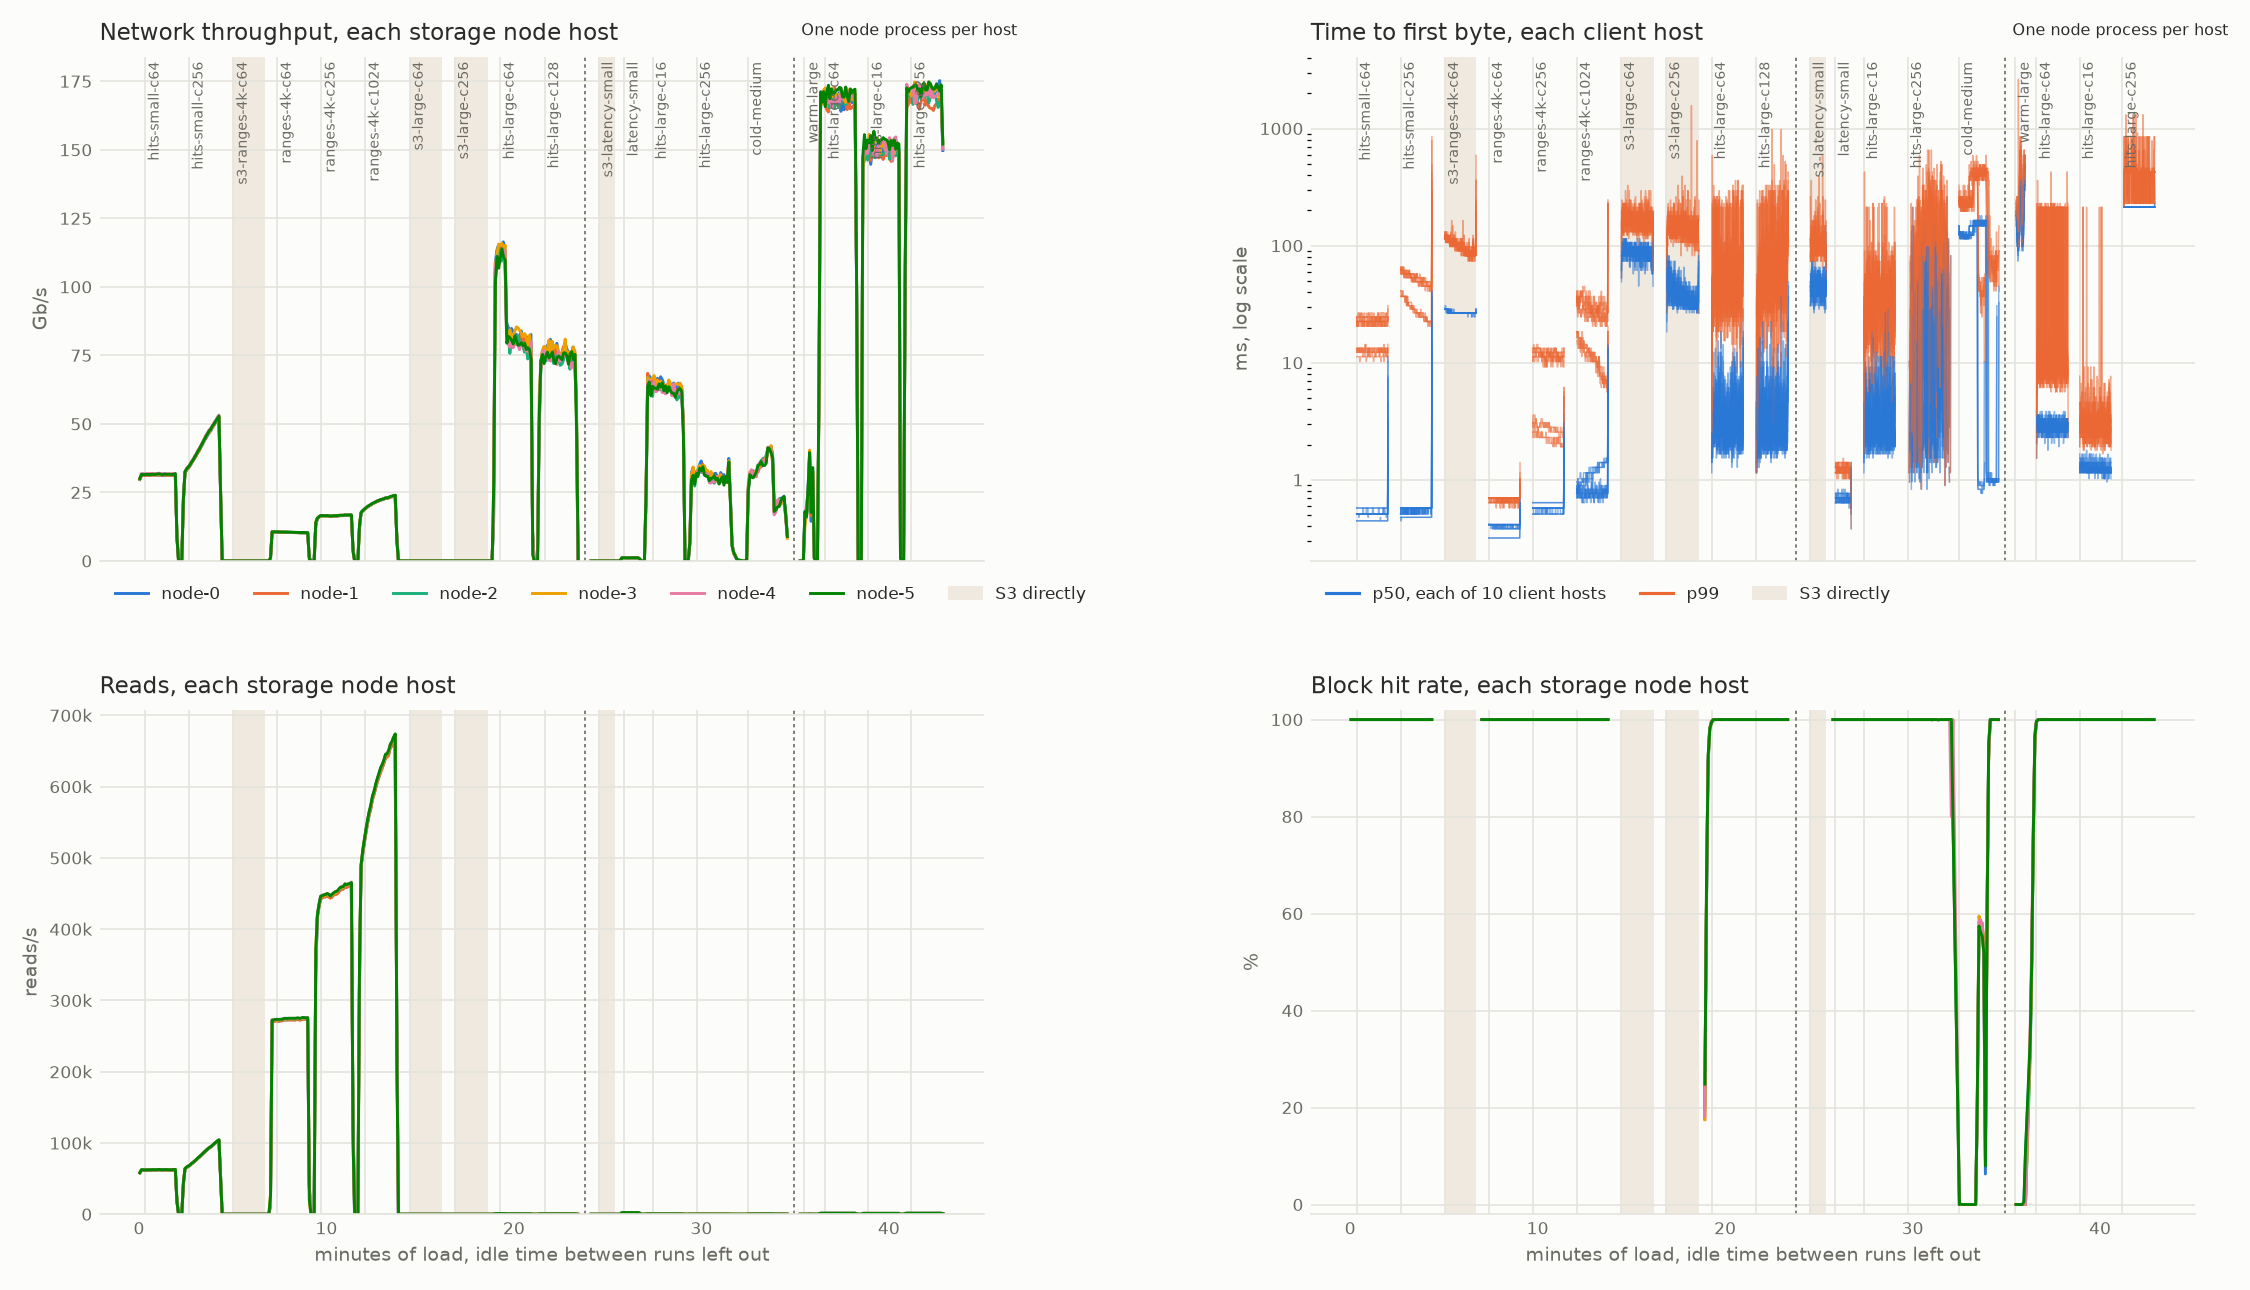
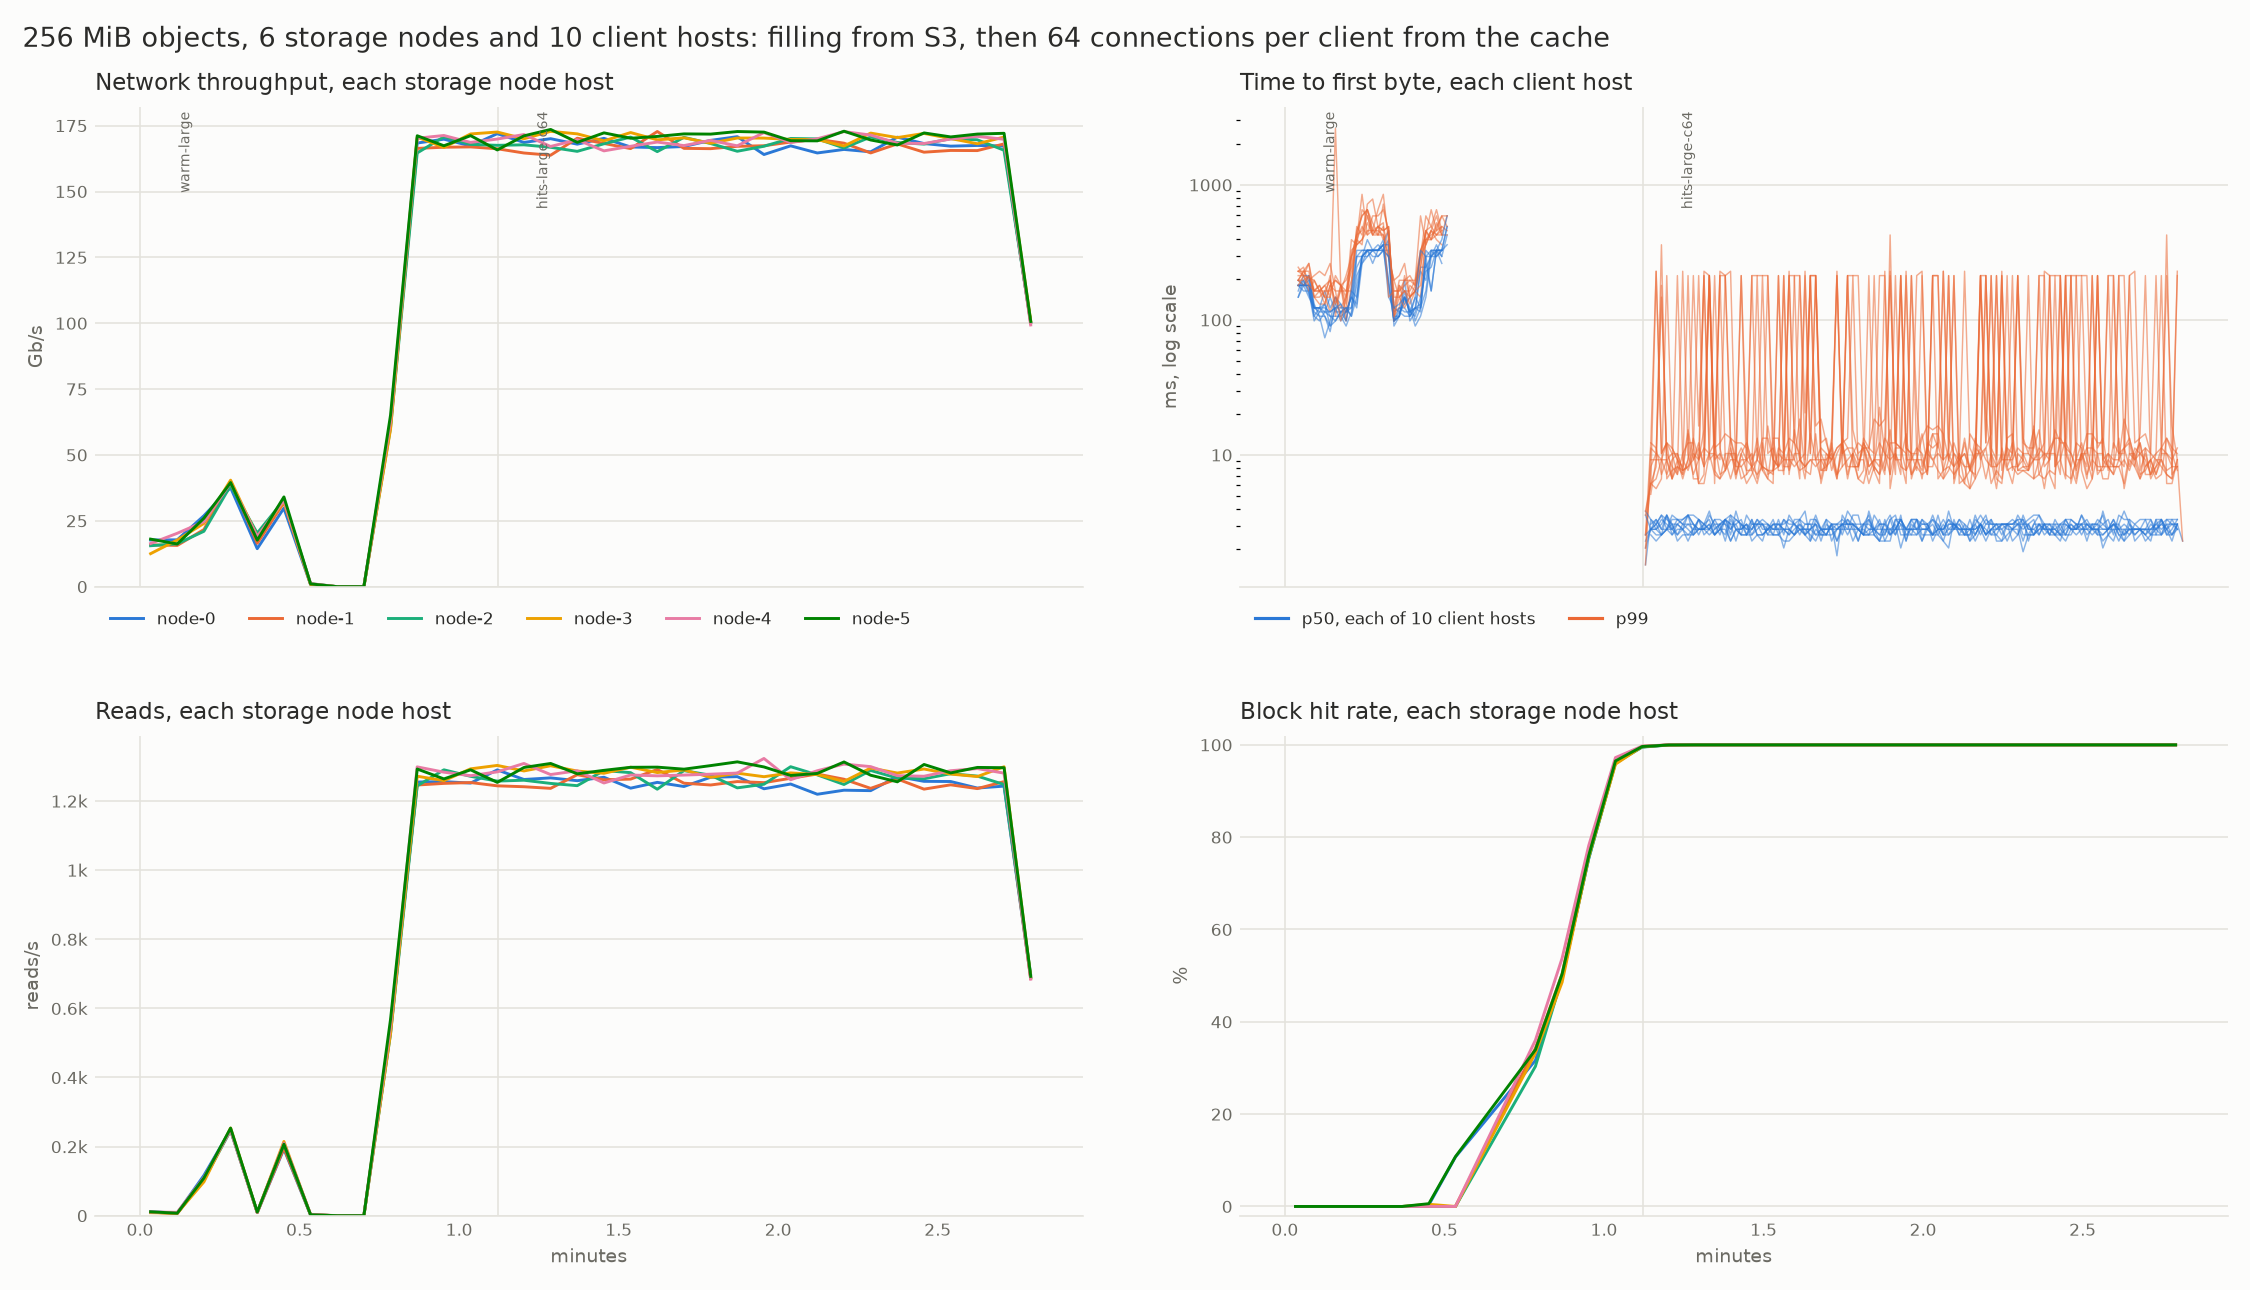
Chart one test: large objects filling from S3, then hits
The README's chart now draws a single test instead of three runs side by
side: 256 MiB objects from a cold cache, then 64 connections per client,
with each node at about 170 Gb/s. `loadtest/chart` takes `--steps` to draw
chosen steps and `--title`, and keeps the S3 band out of the legend when no
step read S3 directly.

Claude-Session: https://claude.ai/code/session_014vNZZNs59YyniMg1Voj5PD

diff --git a/README.md b/README.md
@@ -19,9 +19,9 @@ A distributed NVMe read cache in front of S3. Clients keep their S3 SDKs and poi
 - [Operator guide](#operator-guide)
 - [Development](#development)
 
-![The scale test, over time: each storage node's throughput, each gateway's latency, each storage node's requests per second and block hit rate](docs/scale-test.png)
+![256 MiB objects through the cache, over time: each storage node host's throughput, reads per second and block hit rate, and each client host's time to first byte](docs/scale-test.png)
 
-*The scale test over time. Each line is one storage node host, except in the latency panel, where each pair is one client host. Shaded bands read S3 directly, so the latency lines there are S3's. In `cold-medium` the clients read a cold set three times: the hit rate falls to zero while the first pass streams and the second admits, then returns to 100%. The last segment ran large reads with one node process per host; see [the scale test](#the-scale-test).*
+*Six storage nodes serve 256 MiB objects to ten client hosts. In `warm-large` the cache starts cold: nodes fetch from S3, admit each block on its second read, and the hit rate climbs to 100%. Then each client reads with 64 connections, and every node sends about 170 Gb/s, its share of the clients' 1 Tb/s, at 4% CPU, while first byte holds near 3 ms at p50. The p99 spikes near 210 ms are TCP retransmission timeouts. Each line is one storage node host, except in the latency panel, where each pair is one client host.*
 
 ## The scale test
 

diff --git a/BENCHMARKS.md b/BENCHMARKS.md
@@ -213,7 +213,7 @@ Each node's figure counts object bytes; TCP, IP and Ethernet headers add about 0
 - **A cold set read three times** (`cold-medium`, about 870 GiB a pass): 20.5 GiB/s over the three passes; the block hit rate stays at zero while the first pass streams and the second admits, then holds at 100%.
 - **Errors:** S3 answered 67 of the 4.0 million direct requests with a 500, and one timed out; the cache passed on S3's 500s for 14 fills.
 
-`docs/scale-test.png` draws the runs over time with `loadtest/chart`.
+`docs/scale-test.png` draws `scale-1proc`'s `warm-large` and `hits-large-c64` over time: `loadtest/chart docs/scale-test.png --steps warm-large,hits-large-c64 loadtest/runs/scale-1proc`. At p99, first byte spikes to about 210 ms several times a minute: Linux's 200 ms minimum retransmission timeout, so packets were lost.
 
 ### What limits each workload
 
